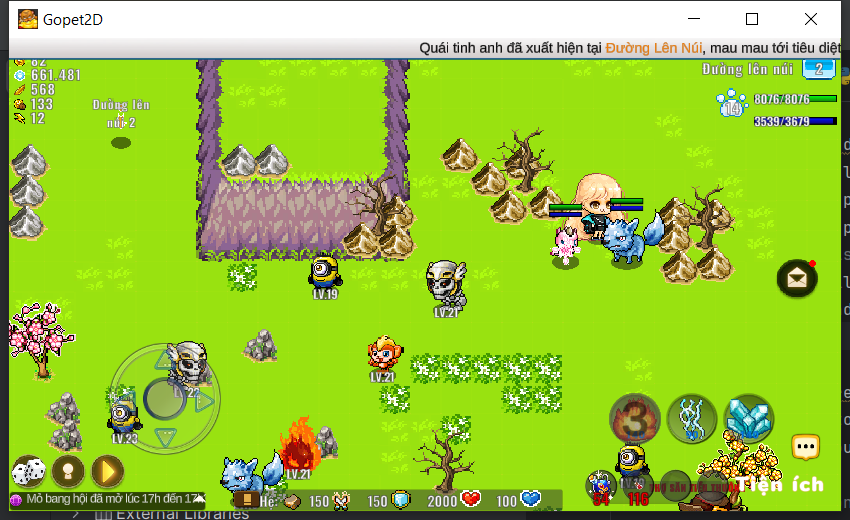
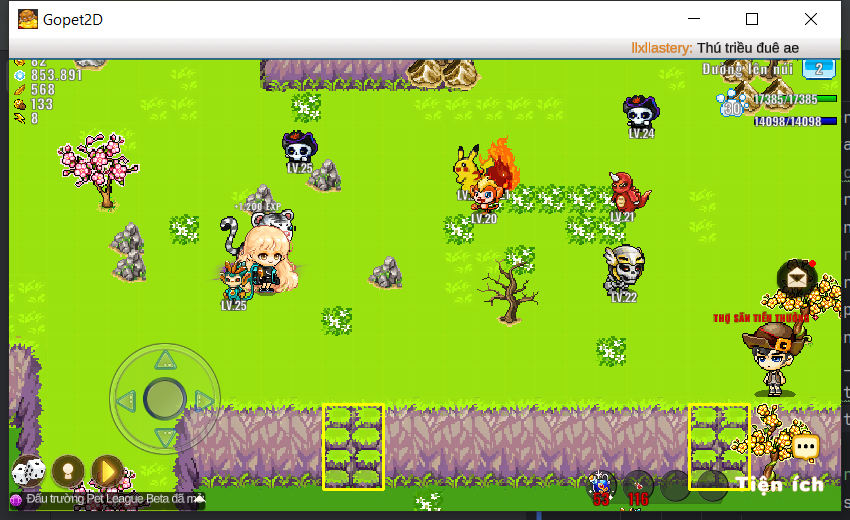
add cliff moving and create read fight boss thread

diff --git a/Main.py b/Main.py
@@ -1,12 +1,16 @@
 import math
 import os
+import threading
 import time
 import pyautogui as gui
 import win32con,win32gui
 from NearestMonsterPosition import find_nearest_monster
 from Moving import moving_avatar,hold_key
 from ultralytics import YOLO
+from CapturePacket import start_packet_capture
+from ImagesClassifierFeatureDetectors import map_object_detect
 
+flag_boss = False
 model = YOLO('.venv/Lib/site-packages/ultralytics/best.pt')
 
 classNames = ["Cat2","Death1","Minion1","Monkey1",
@@ -19,7 +23,7 @@ cliff_directory = "Resources/Cliff"
 realtime_path = []
 cliff_path = []
 
-#Bring game windown to screen
+# Bring game windown to screen
 def bring_window_to_foreground(window_title):
     # Find the window by its title
     hwnd = win32gui.FindWindow(None, window_title)
@@ -32,12 +36,12 @@ def bring_window_to_foreground(window_title):
     # Bring the window to the foreground
     win32gui.ShowWindow(hwnd, win32con.SW_RESTORE)  # Restore if minimized
     win32gui.SetForegroundWindow(hwnd)
-#Set game size and position prepare for gui.screenshot
+# Set game size and position prepare for gui.screenshot
 def set_window_position(hwnd, x, y, width, height):
     # Set the window position and size
     win32gui.SetWindowPos(hwnd, win32con.HWND_TOP, x, y, width, height, win32con.SWP_SHOWWINDOW)
 
-#Get the directory from resources
+# Get the directory from resources
 def get_directory_path(directory, array):
     for filename in os.listdir(directory):
         file_path = os.path.join(directory, filename)
@@ -46,42 +50,62 @@ def get_directory_path(directory, array):
         if os.path.isfile(file_path):
             array.append(file_path)
     return array
+# Skill kill boss
+def boss_pattern():
+    hold_key(0.3, '2')
+    time.sleep(0.3)
+    hold_key(0.3, '1')
+    time.sleep(0.3)
+    hold_key(0.3, '3')
+    time.sleep(3)
 
-realtime_path = get_directory_path(realtime_map, realtime_path)
-cliff_path = get_directory_path(cliff_directory, cliff_path)
-bring_window_to_foreground('Gopet2D')
-time.sleep(2)
 # Detect avatar positions
-while True:
-    #Get realtime map
-    screen_shot = gui.screenshot(region=(0,0,850,520))
-    screen_shot.save(realtime_path[0])
-    results = model.predict(realtime_path[0])
-    avatar_positions = []
-    monster_positions = []
-    for result in results:
-        boxes = result.boxes
-        for box in boxes:
-            x, y, w, h = box.xywh[0]
-            x, y, w, h = int(x),int(y),int(w),int(h)
-            #Confidence
-            conf = math.ceil((box.conf[0] * 100)) / 100
-            #Class Name
-            cls = int(box.cls[0])
-            currentClass = classNames[cls]
-            #Detec avatar positions
-            if currentClass == "MyAvatar" and conf >= 50:
-                avatar_positions.append((x + w/2,y + h, w, h))
-            #Detec monster positions
-            if currentClass != "MyAvatar" and conf >= 50:
-                monster_positions.append((x + w/2,y + h, w, h))
-    #Find the nearest monster for each avatar
-    nearest_monsters = []
-    if len(avatar_positions) > 0 and len(monster_positions) > 0:
-        nearest_monsters = find_nearest_monster(avatar_positions, monster_positions)
-    if len(nearest_monsters) > 0:
-        avatar_postition,monster_position = nearest_monsters[0][:2]
-        moving_avatar(avatar_postition,monster_position)
-    else:
-        print('There no avatar or nerest monster')
-        hold_key(1,'right')
+# Example of how to start capture in a separate thread
+if __name__ == "__main__":
+    realtime_path = get_directory_path(realtime_map, realtime_path)
+    cliff_path = get_directory_path(cliff_directory, cliff_path)
+    bring_window_to_foreground('Gopet2D')
+    time.sleep(2)
+    capture_thread = threading.Thread(target=start_packet_capture)
+    capture_thread.start()
+    while True:
+        #Get realtime map
+        screen_shot = gui.screenshot(region=(0,0,850,520))
+        screen_shot.save(realtime_path[0])
+
+        results = model.predict(realtime_path[0])
+
+
+        avatar_positions = []
+        monster_positions = []
+        ciff_positions = map_object_detect(cliff_path[0],realtime_path[0])
+        for result in results:
+            boxes = result.boxes
+            for box in boxes:
+                x, y, w, h = box.xywh[0]
+                x, y, w, h = int(x),int(y),int(w),int(h)
+                # Confidence
+                conf = math.ceil((box.conf[0] * 100)) / 100
+                # Class Name
+                cls = int(box.cls[0])
+                currentClass = classNames[cls]
+                # Detec avatar positions
+                if currentClass == "MyAvatar" and conf >= 0.5:
+                    avatar_positions.append((x + w/2,y + h, w, h))
+                # Detec monster positions
+                if currentClass != "MyAvatar" and conf >= 0.5:
+                    monster_positions.append((x + w/2,y + h, w, h))
+        # Find the nearest monster for each avatar
+        nearest_monsters = []
+        if len(avatar_positions) > 0 and len(monster_positions) > 0:
+            nearest_monsters = find_nearest_monster(avatar_positions, monster_positions)
+        if len(nearest_monsters) > 0:
+            avatar_postition,monster_position = nearest_monsters[0][:2]
+            moving_avatar(avatar_postition,monster_position, ciff_positions,None, 14000, 80)
+        else:
+            print('There no avatar or nerest monster')
+            if flag_boss:
+                boss_pattern()
+            else:
+                hold_key(0.3, 'up')
+                hold_key(0.3, 'down')

diff --git a/Moving.py b/Moving.py
@@ -1,3 +1,5 @@
+import math
+
 import pyautogui as gui
 import time
 
@@ -6,17 +8,35 @@ moving_speed = 135
 
 
 def hold_key (hold_time,keypress):
-    gui.keyDown(keypress)
-    time.sleep(hold_time)
-    gui.keyUp(keypress)
+    if keypress:
+        gui.keyDown(keypress)
+        time.sleep(hold_time)
+        gui.keyUp(keypress)
 
-def moving_avatar(avatar, monster):
+def moving_avatar(avatar, monster, ciff_positions, keypress, total_mana, mana_cost):
     global monster_count
-    if monster_count > 30:
+    if mana_cost != 0 and monster_count > math.floor(total_mana/mana_cost):
         time.sleep(3)
         hold_key(0.5, 'space')
         hold_key(20, '1')
         monster_count = 0
+    avatar_center_bottom_x, avatar_center_bottom_y = avatar[:2]
+    monster_center_bottom_x, monster_center_bottom_y = monster[:2]
+    moving_ciff_path = False
+    if len(ciff_positions) > 0:
+        cliff_center_bottom_x,cliff_center_bottom_y,w,h = ciff_positions[0][:]
+        cliff_center_bottom_y = cliff_center_bottom_y - h/2
+        if (avatar_center_bottom_y < cliff_center_bottom_y
+            and cliff_center_bottom_y < monster_center_bottom_y) or (avatar_center_bottom_y > cliff_center_bottom_y
+            and cliff_center_bottom_y > monster_center_bottom_y):
+            moving_ciff_path = True
+    if moving_ciff_path:
+        moving_cliff_roadmap(avatar,monster,ciff_positions,keypress)
+    else:
+        moving_nomal_roadmap(avatar,monster,keypress)
+
+def moving_nomal_roadmap(avatar,monster,keypress):
+    global monster_count
     avatar_center_bottom_x, avatar_center_bottom_y = avatar[:2]
     monster_center_bottom_x, monster_center_bottom_y = monster[:2]
     if avatar_center_bottom_x < monster_center_bottom_x:
@@ -32,9 +52,39 @@ def moving_avatar(avatar, monster):
         hold_time = (monster_center_bottom_y - avatar_center_bottom_y)/moving_speed
         hold_key(hold_time, 'down')
     time.sleep(1)
-    hold_key(0.5,'3')
+    hold_key(0.5,keypress)
     monster_count += 1
     time.sleep(3)
+
+def moving_cliff_roadmap(avatar,monster,ciff_positions,keypress):
+    global monster_count
+    avatar_center_bottom_x, avatar_center_bottom_y = avatar[:2]
+    monster_center_bottom_x, monster_center_bottom_y = monster[:2]
+    cliff_center_bottom_x, cliff_center_bottom_y, w, h = ciff_positions[0][:]
+    hold_time = abs(cliff_center_bottom_x - avatar_center_bottom_x) / moving_speed
+    if cliff_center_bottom_x > avatar_center_bottom_x:
+        hold_key(hold_time, 'right')
+    else:
+        hold_key(hold_time, 'left')
+    if (avatar_center_bottom_y < cliff_center_bottom_y
+            and cliff_center_bottom_y < monster_center_bottom_y):
+        hold_time = (monster_center_bottom_y - avatar_center_bottom_y) / moving_speed
+        hold_key(hold_time, 'down')
+    if (avatar_center_bottom_y > cliff_center_bottom_y
+            and cliff_center_bottom_y > monster_center_bottom_y):
+        hold_time = (avatar_center_bottom_y - monster_center_bottom_y) / moving_speed
+        hold_key(hold_time, 'up')
+    if cliff_center_bottom_x > monster_center_bottom_x:
+        hold_time = (cliff_center_bottom_x - monster_center_bottom_x) / moving_speed
+        hold_key(hold_time, 'left')
+    if cliff_center_bottom_x < monster_center_bottom_x:
+        hold_time = (monster_center_bottom_x - cliff_center_bottom_x) / moving_speed
+        hold_key(hold_time, 'right')
+    time.sleep(1)
+    hold_key(0.5,keypress)
+    monster_count += 1
+    time.sleep(3)
+
 
 
 

diff --git a/ImagesClassifierFeatureDetectors.py b/ImagesClassifierFeatureDetectors.py
@@ -2,7 +2,7 @@ import cv2
 import numpy as np
 
 
-def map_object_detect(pathResources, pathImagesRealTime, rec_name, isAvatar):
+def map_object_detect(pathResources, pathImagesRealTime):
     avatar = cv2.imread(pathResources)
     sample = cv2.imread(pathImagesRealTime)
 
@@ -15,10 +15,7 @@ def map_object_detect(pathResources, pathImagesRealTime, rec_name, isAvatar):
 
     rectangles = []
     for (x, y) in zip(xloc, yloc):
-        if isAvatar:
-            rectangles.append([x, y, width, height + 120])
-        else:
-            rectangles.append([x, y, width, height])
+        rectangles.append([x, y, width, height])
 
     # Convert rectangles to numpy array
     rectangles = np.array(rectangles)
